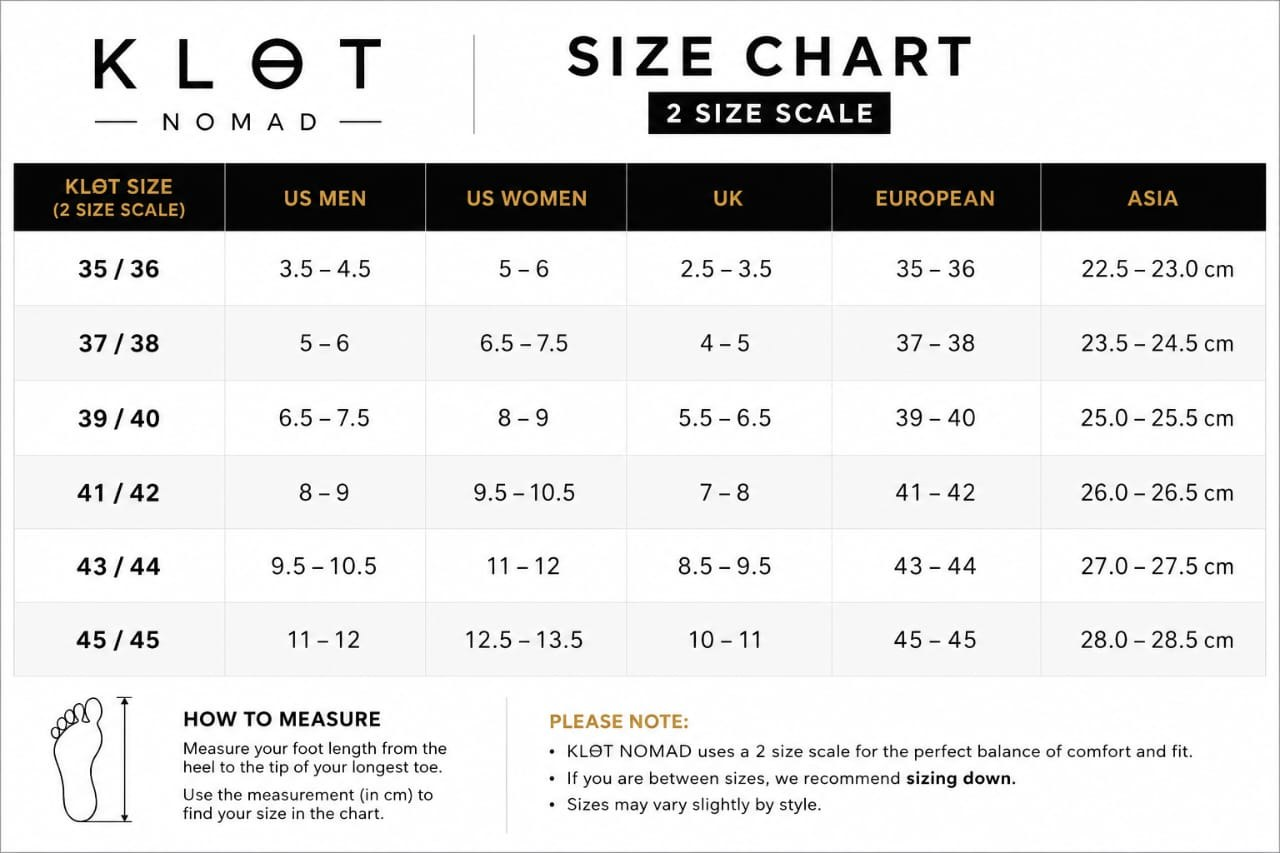
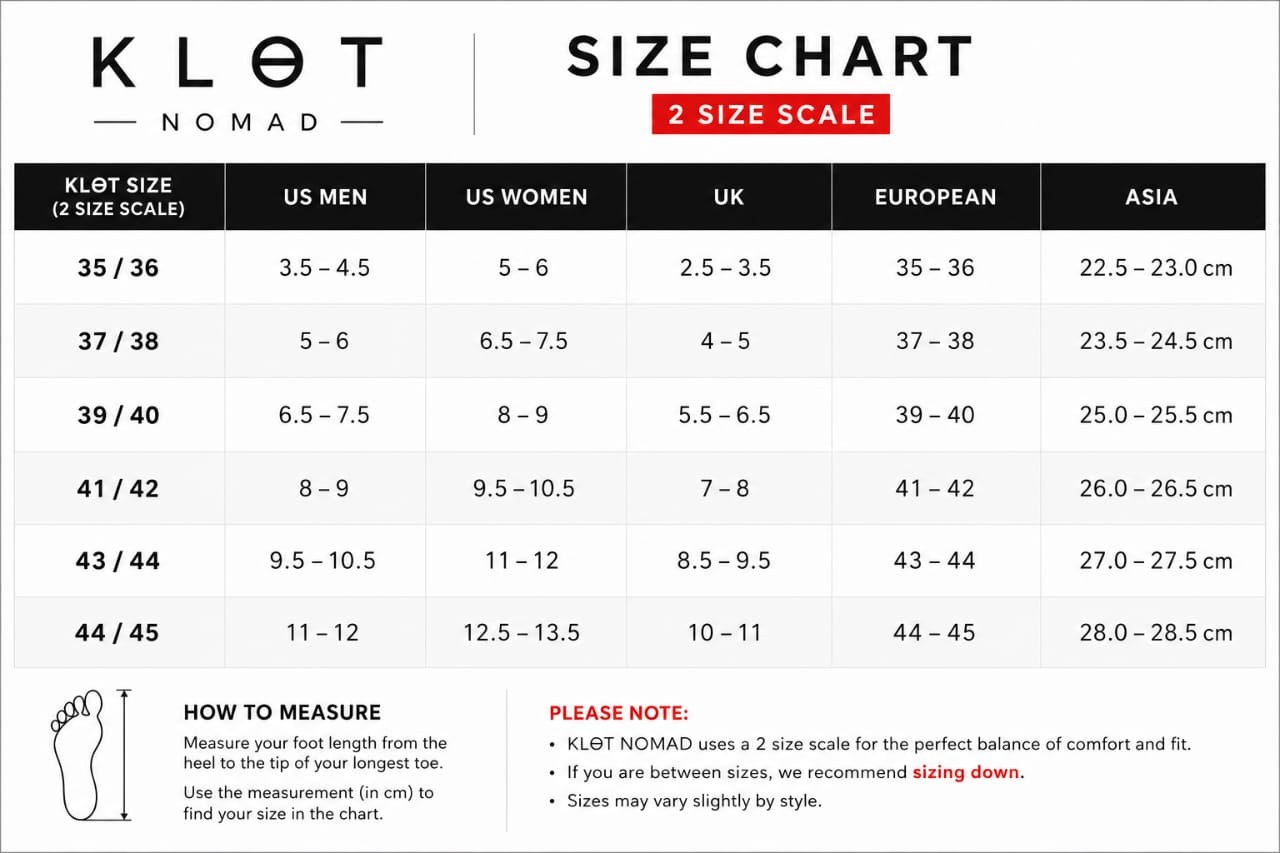
Correct last size bucket from 45/45 to 44/45
The chart's own EUROPEAN column changed from "45-45" to "44-45" for
the top bucket - a real data correction, not just a label typo.
Updated everywhere it's referenced: the size scale config, the foot-
length calculator's cm ranges and out-of-range copy, Terms, and the
size guide's image alt text. Also pushed the corrected chart image
itself.

No database migration needed - checked first, no existing order used
the old "45/45" label. Verified the size selector and calculator both
show 44/45 correctly after the change.

diff --git a/web/src/app/size-guide/page.tsx b/web/src/app/size-guide/page.tsx
@@ -37,7 +37,7 @@ export default function SizeGuidePage() {
         <div className="mt-10 overflow-hidden rounded-2xl ring-1 ring-line">
           <ZoomableImage
             src="/images/guides/size-chart.jpg"
-            alt="KLΘT NOMAD size chart: EU sizes 35–45 paired in a two-size scale (35/36 through 45/45), with US Men, US Women, UK, and Asia (cm) equivalents. Measure foot length from heel to the tip of the longest toe."
+            alt="KLΘT NOMAD size chart: EU sizes 35–45 paired in a two-size scale (35/36 through 44/45), with US Men, US Women, UK, and Asia (cm) equivalents. Measure foot length from heel to the tip of the longest toe."
             width={1280}
             height={853}
           />

diff --git a/web/src/app/terms/page.tsx b/web/src/app/terms/page.tsx
@@ -110,7 +110,7 @@ export default function TermsPage() {
             </h2>
             <p className="mt-2">
               NOMAD is a five-toe, zero-drop barefoot shoe sized on a 2-size
-              scale from EU 35/36 to 45/45 &mdash; each mold covers two
+              scale from EU 35/36 to 44/45 &mdash; each mold covers two
               consecutive sizes. If you&rsquo;re unsure of your size, see the{" "}
               <Link href="/size-guide" className="text-gold-ink hover:underline">
                 size guide

diff --git a/web/src/components/FootSizeCalculator.tsx b/web/src/components/FootSizeCalculator.tsx
@@ -89,7 +89,7 @@ export function FootSizeCalculator() {
           )}
           {result.status === "too-large" && (
             <p className="text-muted">
-              That&rsquo;s larger than our largest mold (45/45). Email{" "}
+              That&rsquo;s larger than our largest mold (44/45). Email{" "}
               <a
                 href="mailto:hello@klotworld.com"
                 className="text-gold-ink hover:underline"

diff --git a/web/src/lib/size-calculator.ts b/web/src/lib/size-calculator.ts
@@ -6,7 +6,7 @@ export const sizeChartCm = [
   { size: "39/40", minCm: 25.0, maxCm: 25.5 },
   { size: "41/42", minCm: 26.0, maxCm: 26.5 },
   { size: "43/44", minCm: 27.0, maxCm: 27.5 },
-  { size: "45/45", minCm: 28.0, maxCm: 28.5 },
+  { size: "44/45", minCm: 28.0, maxCm: 28.5 },
 ] as const;
 
 export type SizeRecommendation =

diff --git a/web/src/lib/specs.ts b/web/src/lib/specs.ts
@@ -29,7 +29,7 @@ export const nomadSizeScale = [
   "39/40",
   "41/42",
   "43/44",
-  "45/45",
+  "44/45",
 ] as const;
 
 /**
